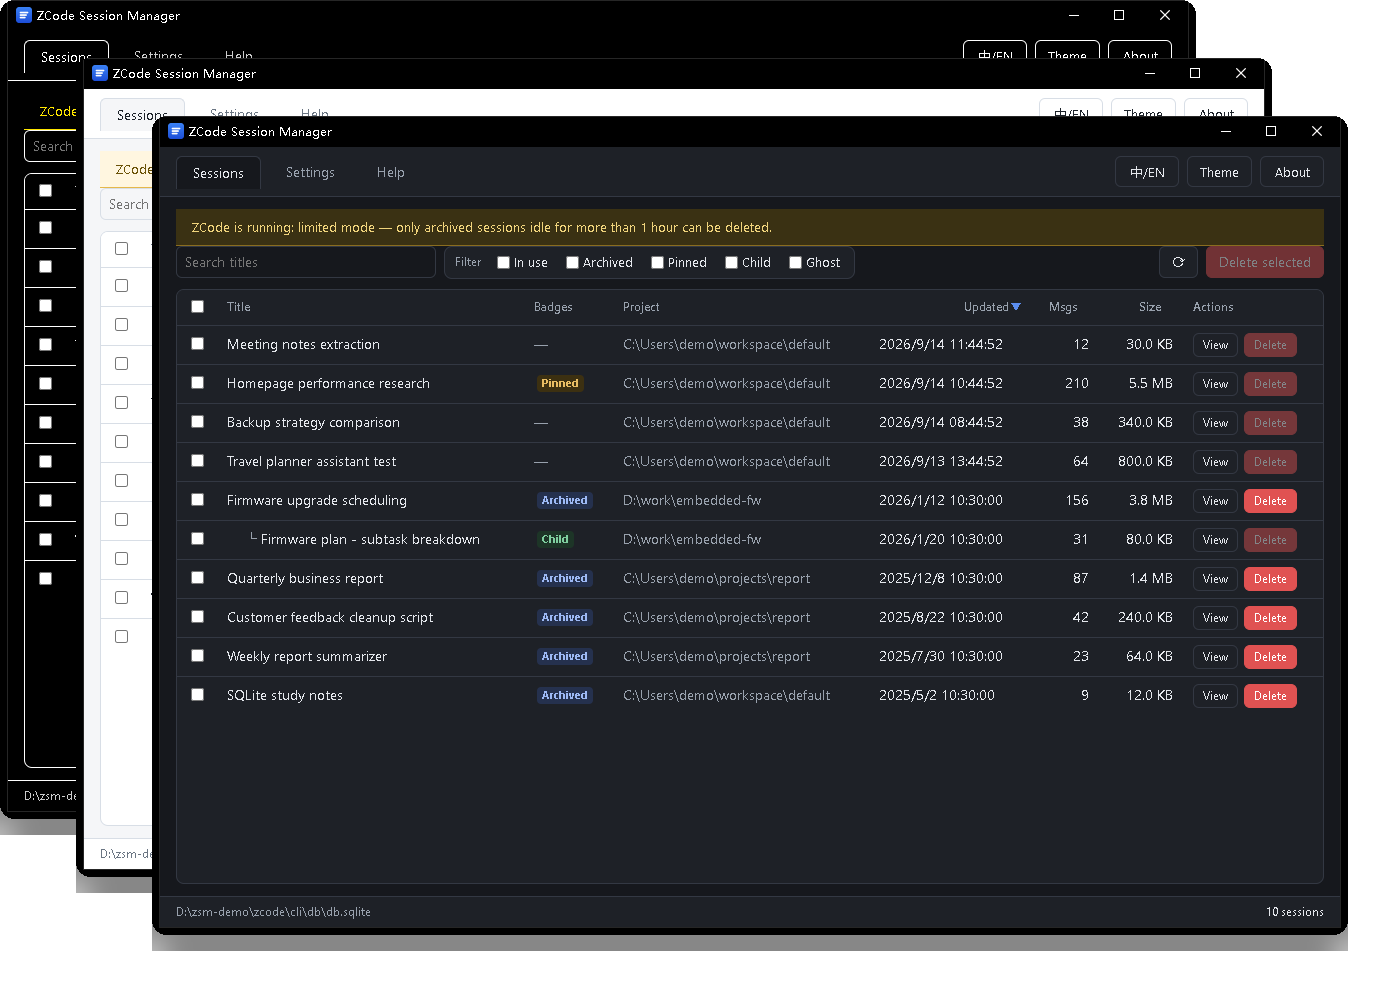
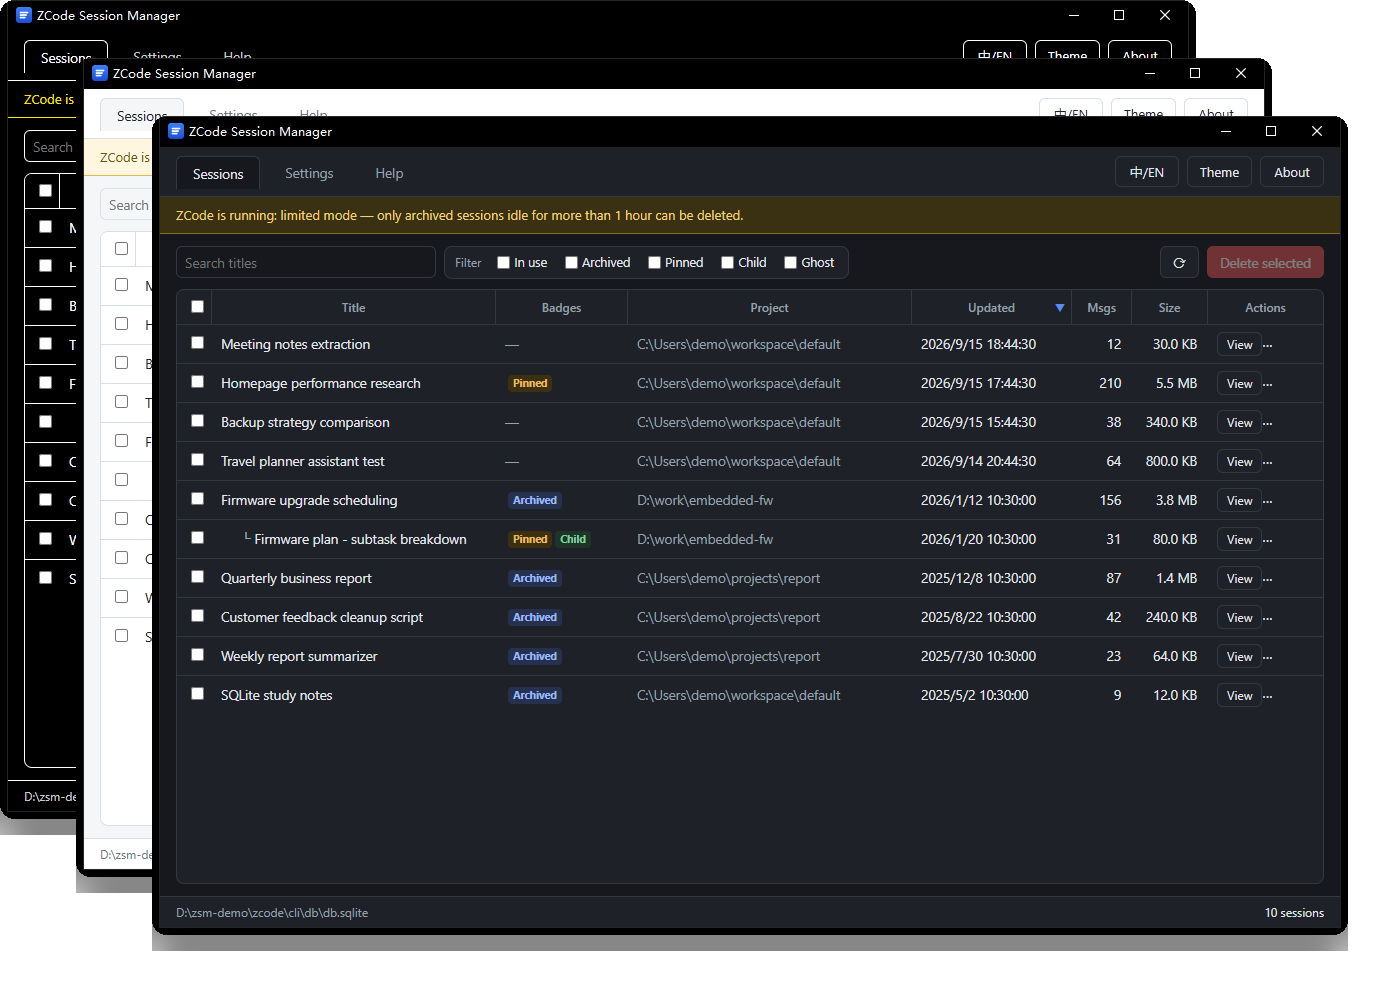
chore: release V1.3.0
Bumps the workspace and bundle version to 1.3.0, promotes the CHANGELOG
Unreleased section to 1.3.0, and refreshes both README hero cascades from
the current UI (centered headers with separators and right-pinned arrows,
banner flush to the tab bar, 132px badges column — the demo child session
is now also pinned to showcase multi-badge rendering).

diff --git a/tools/make_demo_data.py b/tools/make_demo_data.py
@@ -39,7 +39,7 @@ TITLES = {
         ("backup", "数据备份方案对比",            r"C:\Users\demo\workspace\default", None,      ts(2026, 6, 15), NOW - 5 * H,  38, 0, 0,  340),
         ("travel", "旅行行程规划助手测试",        r"C:\Users\demo\workspace\default", None,      ts(2026, 7,  2), NOW - 1 * D,  64, 0, 0,  800),
         ("fwp",    "嵌入式固件版本升级排期",      r"D:\work\embedded-fw",             None,      ts(2025, 11, 4), ts(2026, 1, 12), 156, 1, 0, 3900),
-        ("fws",    "固件升级排期-子任务拆解",     r"D:\work\embedded-fw",             "fwp",     ts(2026, 1, 12), ts(2026, 1, 20),  31, 0, 0,   80),
+        ("fws",    "固件升级排期-子任务拆解",     r"D:\work\embedded-fw",             "fwp",     ts(2026, 1, 12), ts(2026, 1, 20),  31, 0, 1,   80),
         ("repq",   "季度经营分析报告整理",        r"C:\Users\demo\projects\report",   None,      ts(2025, 9, 18), ts(2025, 12, 8), 87, 1, 0, 1400),
         ("repc",   "客户反馈数据清洗脚本",        r"C:\Users\demo\projects\report",   None,      ts(2025, 6, 10), ts(2025, 8, 22), 42, 1, 0,  240),
         ("week",   "周报自动汇总工具",            r"C:\Users\demo\projects\report",   None,      ts(2025, 4, 25), ts(2025, 7, 30), 23, 1, 0,   64),
@@ -51,7 +51,7 @@ TITLES = {
         ("backup", "Backup strategy comparison",      r"C:\Users\demo\workspace\default", None,      ts(2026, 6, 15), NOW - 5 * H,  38, 0, 0,  340),
         ("travel", "Travel planner assistant test",   r"C:\Users\demo\workspace\default", None,      ts(2026, 7,  2), NOW - 1 * D,  64, 0, 0,  800),
         ("fwp",    "Firmware upgrade scheduling",     r"D:\work\embedded-fw",             None,      ts(2025, 11, 4), ts(2026, 1, 12), 156, 1, 0, 3900),
-        ("fws",    "Firmware plan - subtask breakdown", r"D:\work\embedded-fw",           "fwp",     ts(2026, 1, 12), ts(2026, 1, 20),  31, 0, 0,   80),
+        ("fws",    "Firmware plan - subtask breakdown", r"D:\work\embedded-fw",           "fwp",     ts(2026, 1, 12), ts(2026, 1, 20),  31, 0, 1,   80),
         ("repq",   "Quarterly business report",       r"C:\Users\demo\projects\report",   None,      ts(2025, 9, 18), ts(2025, 12, 8), 87, 1, 0, 1400),
         ("repc",   "Customer feedback cleanup script", r"C:\Users\demo\projects\report",  None,      ts(2025, 6, 10), ts(2025, 8, 22), 42, 1, 0,  240),
         ("week",   "Weekly report summarizer",        r"C:\Users\demo\projects\report",   None,      ts(2025, 4, 25), ts(2025, 7, 30), 23, 1, 0,   64),

diff --git a/CHANGELOG.md b/CHANGELOG.md
@@ -1,9 +1,9 @@
 # Changelog
 
 All notable changes to this project are documented in this file. 所有显著变更记录于此。
-The format is based on [Keep a Changelog](https://keepachangelog.com/); tags are `V`-prefixed (`V1.2.0`).
+The format is based on [Keep a Changelog](https://keepachangelog.com/); tags are `V`-prefixed (`V1.3.0`).
 
-## [Unreleased]
+## [1.3.0] - 2026-09-15
 <!-- zh -->
 ### 调整
 - 状态横幅紧贴选项卡栏边界显示，且仅在会话列表页出现。
